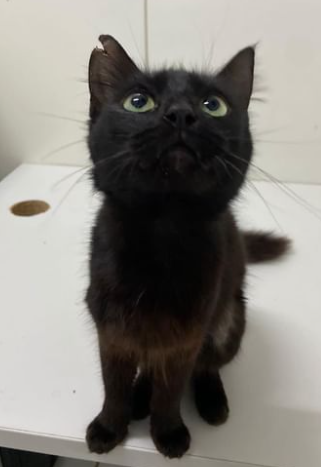
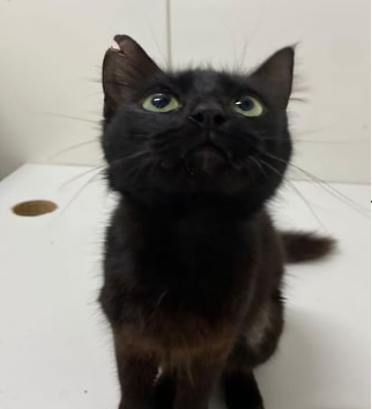
atualização da página doação

diff --git a/doações.html b/doações.html
@@ -4,7 +4,7 @@
     <meta charset="UTF-8">
     <meta name="viewport" content="width=device-width, initial-scale=1.0">
     <link rel="stylesheet" href="/css/doação.css">
-    <script src="/adocao.js" defer></script>
+    <script src="adocao.js" defer></script>
     <title>Doações</title>
 </head>
 <body>
@@ -43,17 +43,20 @@
 
         </section>
 
-        <div class="container-carousel">
-            <div class="faixa-carousel">
-                <div class="slide-carousel"><img src="/imagens/cachorro caramelo.png" alt="Slide 1"></div>
-                <div class="slide-carousel"><img src="/imagens/cachorro caramelo 2.png" alt="Slide 2"></div>
-                <div class="slide-carousel"><img src="/imagens/cachorro caramelo 3.png" alt="Slide 3"></div>
-                
+        
+        <div class="carrossel-container">
+
+        <div class="container-carousel container-carousel1">
+            <div class="carousel-section1 faixa-carousel1" id="carousel1">
+
+                <div class="slide-carousel1"><img src="/imagens/cachorro caramelo.png" alt="Slide 1"></div>
+                <div class="slide-carousel1"><img src="/imagens/cachorro caramelo 2.png" alt="Slide 2"></div>
+                <div class="slide-carousel1"><img src="/imagens/cachorro caramelo 3.png" alt="Slide 3"></div>              
             </div>
-            <section id="interacao">
-            <img src="/imagens/seta (2).png" onclick="prevSlide()" alt="Anterior" id="anterior"class="button-image" />
-            <span id="coracao" class="coracao">&#10084;</span>
-            <img src="/imagens/seta direita.png" onclick="nextSlide()" alt="Próximo" id="proximo"class="button-image" />
+            <section id="interacao1">
+            <img src="/imagens/Design_sem_nome__10_-removebg-preview.png" onclick="prevSlide('carousel1')" alt="Anterior" id="anterior1"class="button-image" />
+            <span id="coracao1" class="coracao">&#10084;</span>
+            <img src="/imagens/Design_sem_nome__9_-removebg-preview.png" onclick="nextSlide('carousel1')" alt="Próximo" id="proximo1"class="button-image" />
             </section>
             
             
@@ -62,13 +65,53 @@
 Eva está castradinha, vacinada e livre de parasitas.
 
 Adote Eva e descubra como a vida pode ser ainda mais incrível com essa adorável cadelinha alegrando seus dias! 🐶❤🐾
-
-    
-
-
-
+   
 </p>
 </div>
+<div class="container-carousel container-carousel2">
+<div class="carousel-section2 faixa-carousel2" id="carousel2">
+    <div class="slide-carousel2"><img src="/imagens/gato tigrado2.png" alt="Slide 1"></div>
+    <div class="slide-carousel2"><img src="/imagens/gato tigrado1.png" alt="Slide 2"></div>
+    <div class="slide-carousel2"><img src="/imagens/gato tigrado 3.png" alt="Slide 3"></div>              
+</div>
+<section id="interacao2">
+<img src="/imagens/Design_sem_nome__10_-removebg-preview.png" onclick="prevSlide('carousel2')" alt="Anterior" id="anterior2"class="button-image" />
+<span id="coracao2" class="coracao">&#10084;</span>
+<img src="/imagens/Design_sem_nome__9_-removebg-preview.png" onclick="nextSlide('carousel2')" alt="Próximo" id="proximo2"class="button-image" />
+</section>
+
+
+<p>Essa menininha tem aproximadamente 05/06 meses de pura beleza e simpatia.
+    Jammy foi resgatada de um bueiro,junto com sua irmã e hoje,nem de longe lembra aquela filhotinha desnutrida e sofrida. Ela só quer ser feliz no seio de uma família de responsa e cheia de amor...
+    Jamilla é muito boazinha,super sociável com humanos e outros gatos. Usa a caixa de areia com tranquilidade. Ela está pronta para fazer parte de tua família:Já está castradinha,vacinada,sem pulgas, sem vermes e testou negativo para FIV e FeLV. Ela é perfeita!!
+</p>
+
+</div>
+
+<div class="container-carousel container-carousel3">
+    <div class="carousel-section3 faixa-carousel3" id="carousel3">
+        <div class="slide-carousel2"><img src="/imagens/gato preto 1.png" alt="Slide 1"></div>
+        <div class="slide-carousel2"><img src="/imagens/gato preto 2.png" alt="Slide 2"></div>
+        <div class="slide-carousel2"><img src="/imagens/gato preto 3.png" alt="Slide 3"></div>              
+    </div>
+    <section id="interacao3">
+    <img src="/imagens/Design_sem_nome__10_-removebg-preview.png" onclick="prevSlide('carousel3')" alt="Anterior" id="anterior3"class="button-image" />
+    <span id="coracao3" class="coracao">&#10084;</span>
+    <img src="/imagens/Design_sem_nome__9_-removebg-preview.png" onclick="nextSlide('carousel3')" alt="Próximo" id="proximo3"class="button-image" />
+    </section>
+    
+    
+    <p>Olha que princesa 💖 essa é Luna, uma mocinha castrada e desverminada está aguardando por um lar que possa recebe lá com muita amor e carinho, um lar longe de todo preconceito 💖
+
+        “Adotar é um ato de amor e você recebe esse amor todo de volta”.
+        
+    </p>
+    
+    </div>
+    
+</div>
+
+
 
         
         

diff --git a/adocao.js b/adocao.js
@@ -1,33 +1,60 @@
-let currentSlide = 0;
+let currentSlides = [0, 0, 0];
 
-function showSlide(index) {
-    const slides = document.querySelector('.faixa-carousel');
-    const slideWidth = document.querySelector('.slide-carousel').offsetWidth;
+function showSlide(carouselIndex, index) {
+    const carouselId = `carousel${carouselIndex + 1}`;
+    const slides = document.querySelector(`.faixa-${carouselId}`);
+    const slideWidth = slides.children[0].offsetWidth;
 
     if (index >= 0 && index < slides.children.length) {
-        currentSlide = index;
-        slides.style.transform = `translateX(-${currentSlide * slideWidth}px)`;
+        currentSlides[carouselIndex] = index;
+        slides.style.transform = `translateX(-${index * slideWidth}px)`;
     }
 }
 
-function prevSlide() {
-    showSlide(currentSlide - 1);
+function prevSlide(carouselIndex) {
+    showSlide(carouselIndex, currentSlides[carouselIndex] - 1);
 }
 
-function nextSlide() {
-    showSlide(currentSlide + 1);
+function nextSlide(carouselIndex) {
+    showSlide(carouselIndex, currentSlides[carouselIndex] + 1);
 }
 
-const coracao = document.getElementById('coracao');
 
-let coracaoClicado = false;
+for (let i = 0; i < 3; i++) {
+    const prevButton = document.getElementById(`anterior${i + 1}`);
+    const nextButton = document.getElementById(`proximo${i + 1}`);
 
-coracao.addEventListener('click', function () {
-  coracaoClicado = !coracaoClicado;
+    prevButton.addEventListener('click', () => prevSlide(i));
+    nextButton.addEventListener('click', () => nextSlide(i));
+}
 
-  if (coracaoClicado) {
+const coracao1 = document.querySelector('#coracao1');
+const coracao2 = document.querySelector('#coracao2');
+const coracao3 = document.querySelector('#coracao3');
+
+let coracaoClicado1 = false;
+let coracaoClicado2 = false;
+let coracaoClicado3 = false;
+
+coracao1.addEventListener('click', function () {
+  coracaoClicado1 = !coracaoClicado1;
+  atualizarCor(coracao1, coracaoClicado1);
+});
+
+coracao2.addEventListener('click', function () {
+  coracaoClicado2 = !coracaoClicado2;
+  atualizarCor(coracao2, coracaoClicado2);
+});
+
+coracao3.addEventListener('click', function () {
+  coracaoClicado3 = !coracaoClicado3;
+  atualizarCor(coracao3, coracaoClicado3);
+});
+
+function atualizarCor(coracao, clicado) {
+  if (clicado) {
     coracao.style.color = 'red';
   } else {
     coracao.style.color = 'white';
   }
-});
+}

diff --git a/css/doação.css b/css/doação.css
@@ -1,22 +1,31 @@
 @font-face {
     font-family: 'JockeyOne';
     src: url('../fonts/JockeyOne-Regular.ttf') format('truetype');
+    font-weight: normal;
+    font-style: normal;
  }
  
  @font-face {
     font-family: 'Jomhuria';
     src: url('../fonts/Jomhuria-Regular.ttf') format('truetype');
+    font-weight: normal;
+    font-style: normal;
  }
  
  @font-face {
     font-family: 'Arapey';
     src: url('../fonts/Arapey-Regular.ttf') format('truetype');
+    font-weight: normal;
+    font-style: normal;
  }
  
  @font-face {
     font-family: 'Jolly';
     src: url('../fonts/JollyLodger-Regular.ttf') format('truetype');
- }
+    font-weight: normal;
+    font-style: normal;
+   }
+
 
 body {
     margin: 0;
@@ -52,7 +61,16 @@ body {
     margin: 10px 10px 10px 10px;
 
  }
+ .carrossel-container {
+   display: flex;
+}
 
+.container-carousel {
+   width: 100%;
+   margin: 0 auto;
+   overflow: hidden;
+   position: relative;
+}
  
 
  .menu-container ul {
@@ -414,6 +432,7 @@ body {
     height: auto;
     cursor: pointer;
     transition: transform 1.0s ease-in-out;
+    
 }
 
 .mobile-image:hover {
@@ -430,34 +449,75 @@ h1{
 
 
 
-.container-carousel {
-    width: 25%;
+.container-carousel1 {
+    width: 27%;
     margin: 0 auto;
     overflow: hidden;
     position: relative;
     
 }
 
-.faixa-carousel {
+.faixa-carousel1 {
     display: flex;
     transition: transform 1.5s ease-in-out;
 }
 
-.slide-carousel {
-    width: 100%;
+.container-carousel2 {
+   width: 27%;
+   margin: 0 auto;
+   overflow: hidden;
+   position: relative;
+   
 }
 
+.faixa-carousel2 {
+   display: flex;
+   transition: transform 1.5s ease-in-out;
+}
+
+.container-carousel3 {
+   width: 27%;
+   margin: 0 auto;
+   overflow: hidden;
+   position: relative;
+   
+}
+
+.faixa-carousel3 {
+   display: flex;
+   transition: transform 1.5s ease-in-out;
+}
+
+
+.slide-carousel1 {
+    width: 100%;
+}
+.slide-carousel2 {
+   width: 100%;
+}
+.slide-carousel3 {
+   width: 100%;
+}
 .button-image {
-    width: 30px; 
+    width: 50px; 
     height: auto;
     cursor: pointer;
 
     
 }
-#interacao{
+#interacao1{
  display: flex;
  justify-content: space-between;
 }
+
+#interacao2{
+   display: flex;
+   justify-content: space-between;
+  }
+  #interacao3{
+   display: flex;
+   justify-content: space-between;
+  }
 
 .coracao {
     font-size: 22px;
@@ -466,3 +526,4 @@ h1{
   
     
   }
+  
